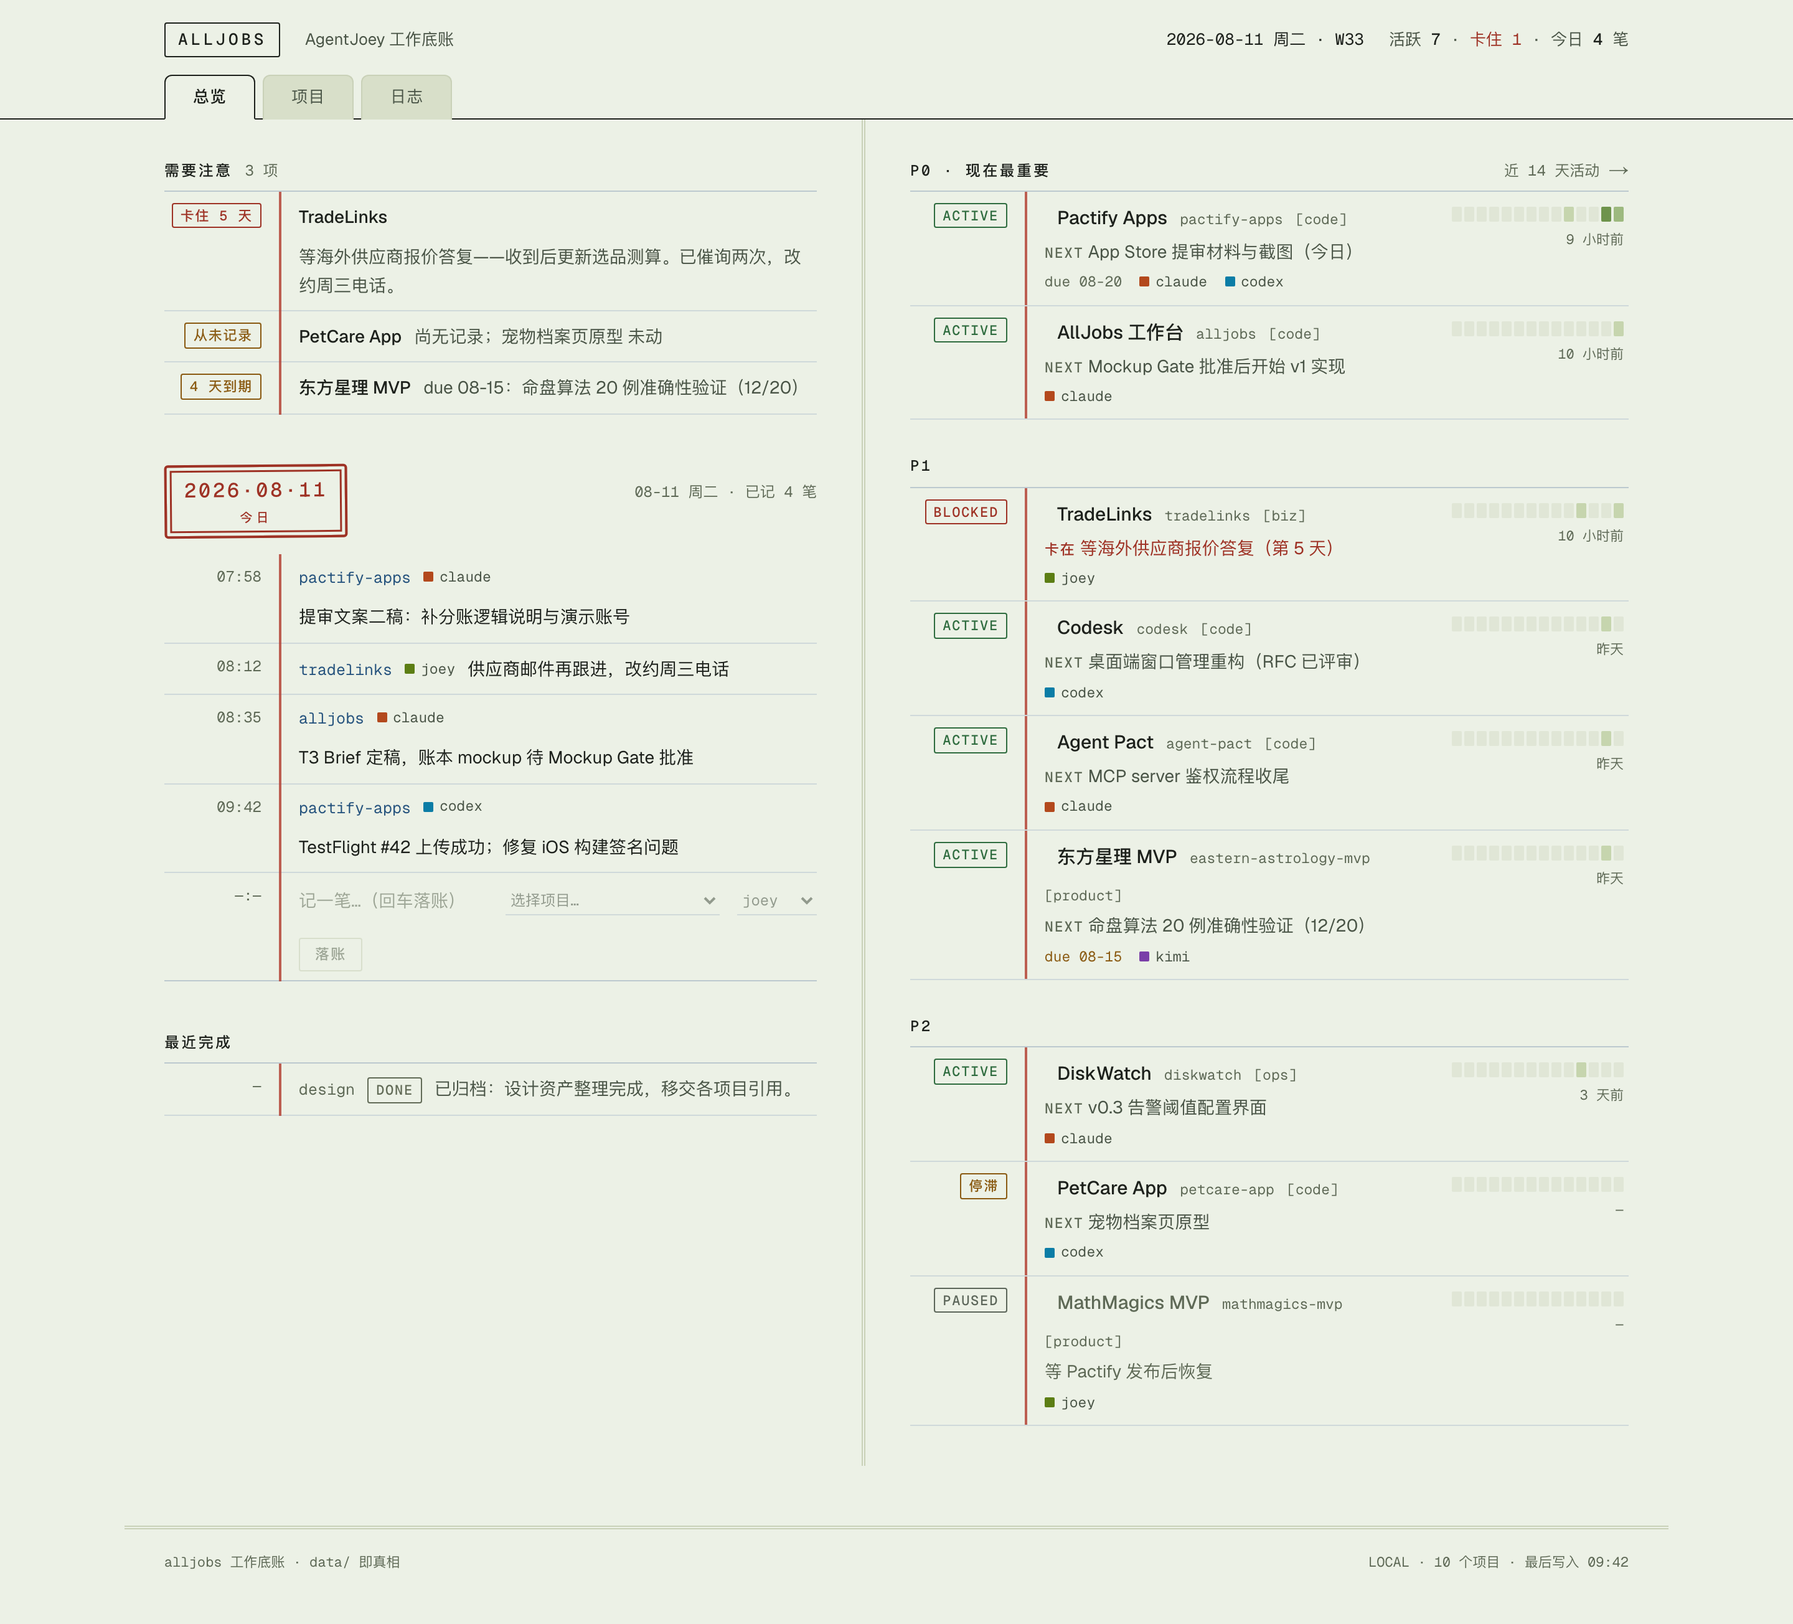
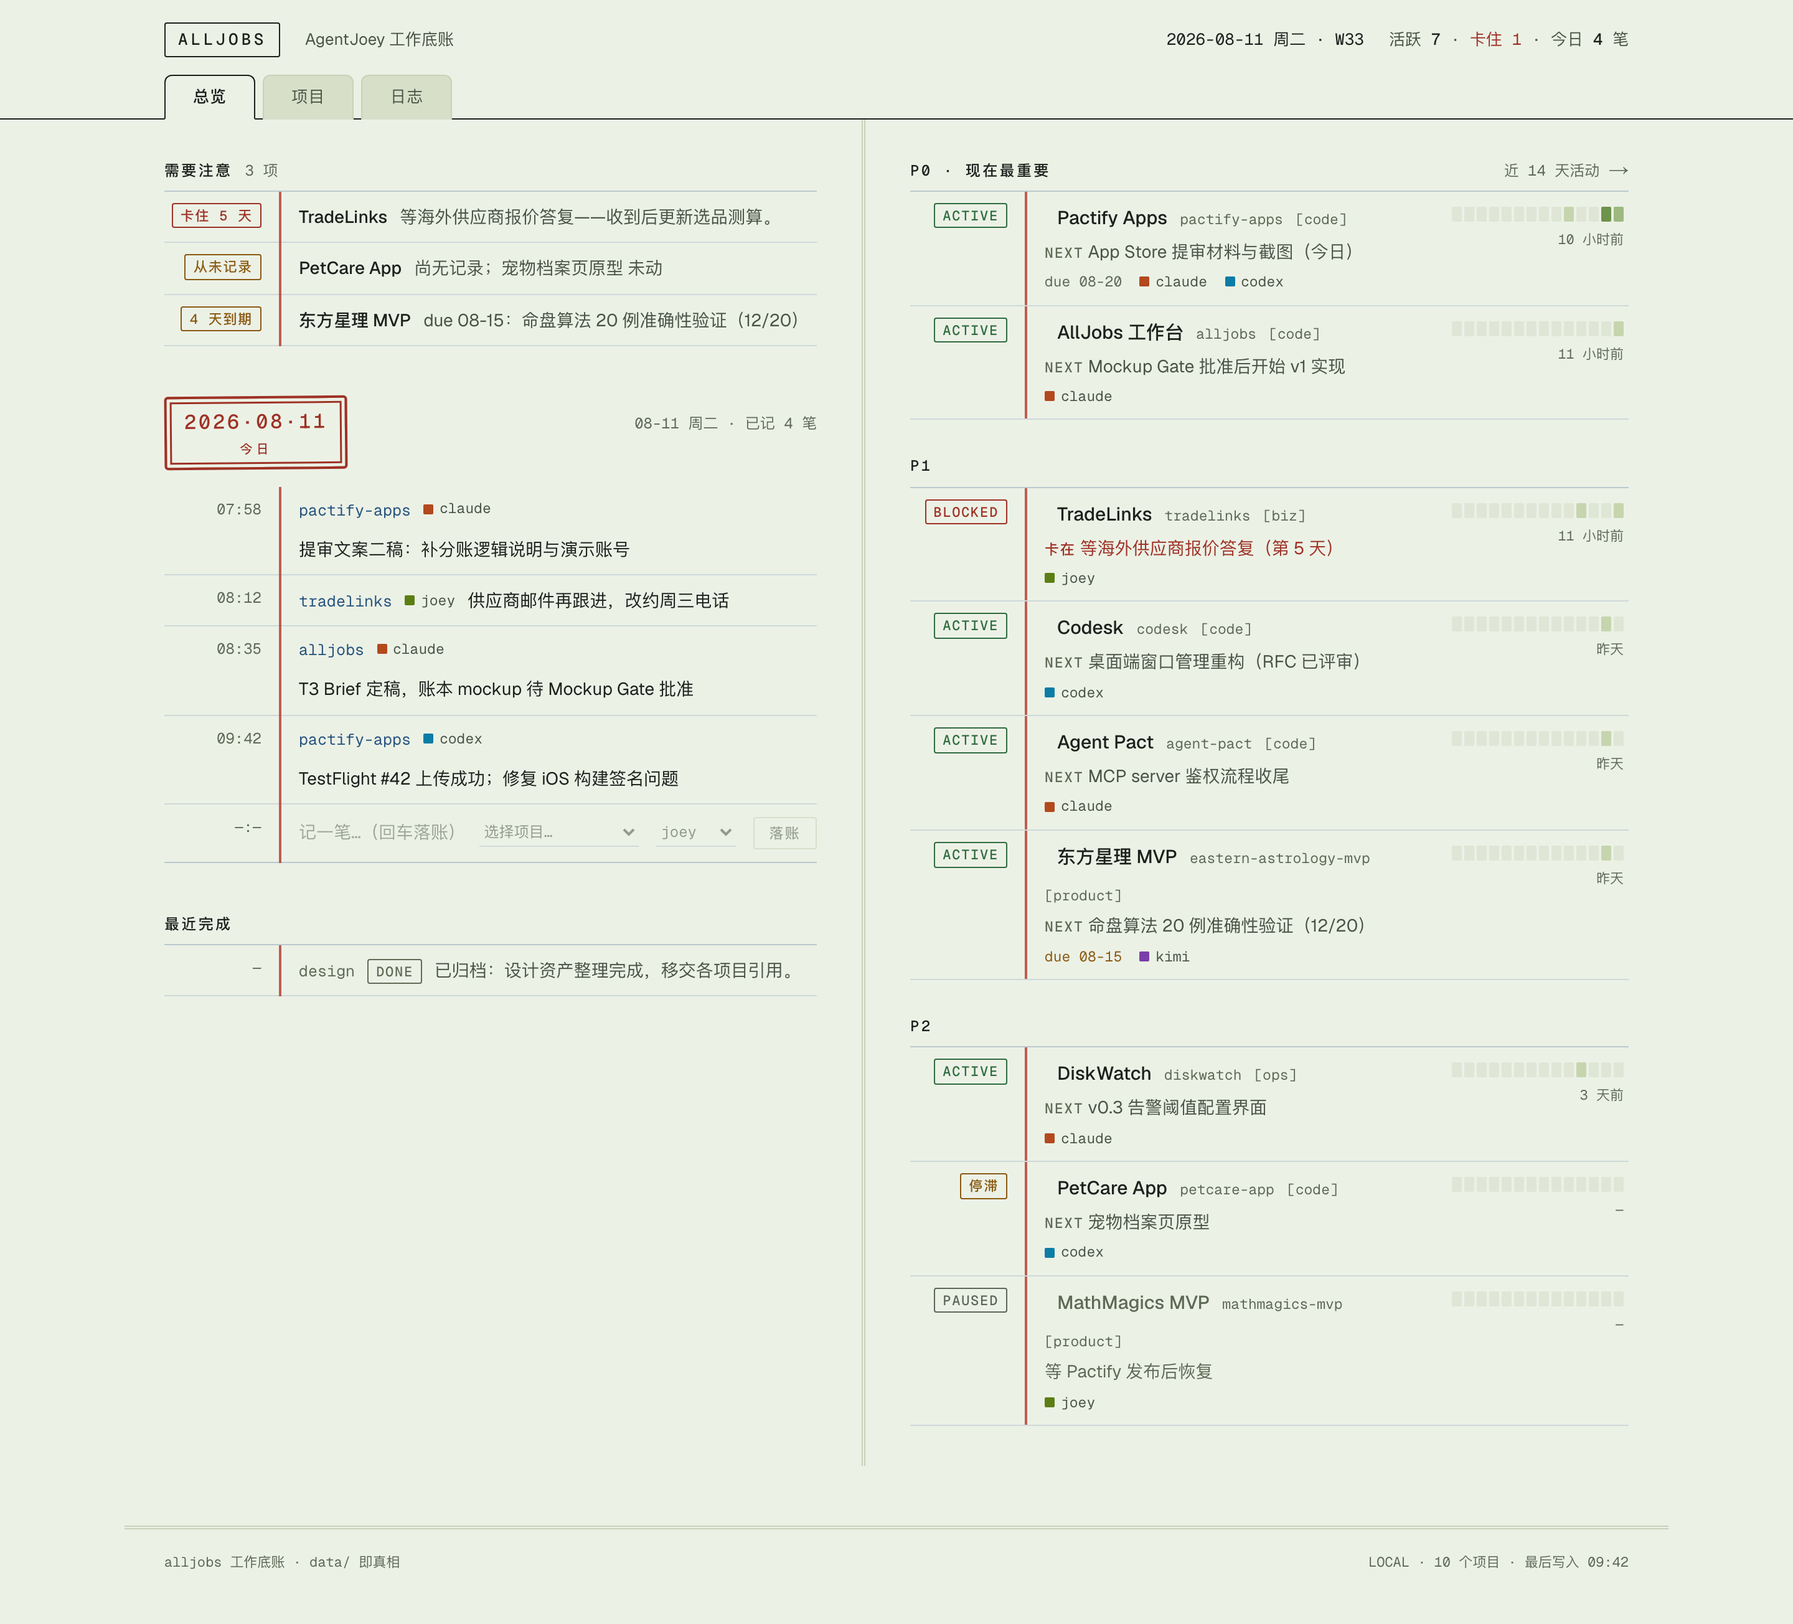
pact pages: checkpoint by kimi

diff --git a/app/views.test.tsx b/app/views.test.tsx
@@ -189,14 +189,16 @@ describe("总览 /", () => {
 });
 
 describe("项目列表 /projects", () => {
-  test("默认全部：chip aria-pressed + 全量底账行", () => {
+  test("默认全部：chip aria-current + 全量底账行", () => {
     const html = renderToStaticMarkup(<ProjectsView data={seedLedger()} filters={{}} now={NOW} />);
     expect(html).toContain("项目底账");
     for (const slug of ["pactify-apps", "tradelinks", "petcare-app", "design", "mathmagics-mvp"]) {
       expect(html).toContain(`href="/projects/${slug}"`);
     }
-    const chip = html.match(/<a[^>]*aria-pressed="true"[^>]*>全部[\s\S]*?<\/a>/);
+    // chips 是链接（role=link），选中态用 aria-current（aria-pressed 对 link 无效，axe critical）
+    const chip = html.match(/<a[^>]*aria-current="true"[^>]*>全部[\s\S]*?<\/a>/);
     expect(chip).toBeTruthy();
+    expect(html).not.toContain("aria-pressed");
   });
 
   test("过滤：status=done 只留 done；URL searchParams 驱动", () => {
@@ -283,6 +285,13 @@ describe("项目详情 /projects/[slug]", () => {
     expect(html).toContain("[url]");
   });
 
+  test("「更早记录见日志」整句为独立链接（axe link-in-text-block）", () => {
+    const html = renderToStaticMarkup(<DetailView data={seedLedger()} slug="pactify-apps" now={NOW} />);
+    // 整句做成链接，而非在文本块中嵌入只靠颜色区分的小链接
+    expect(html).toMatch(/<a[^>]*href="\/log\?slug=pactify-apps"[^>]*>更早记录见日志/);
+    expect(html).not.toMatch(/更早记录见 <a/);
+  });
+
   test("done：整页减淡 + DONE 戳", () => {
     const html = renderToStaticMarkup(<DetailView data={seedLedger()} slug="design" now={NOW} />);
     expect(html).toContain("DONE");
@@ -319,6 +328,9 @@ describe("日志 /log", () => {
     const html = renderToStaticMarkup(<LogView data={seedLedger()} filters={{ slug: "alljobs" }} now={NOW} />);
     expect(html).toContain("T3 Brief 定稿");
     expect(html).not.toContain("TestFlight #42 上传");
+    // chips 是链接：选中态 aria-current，不得出现 aria-pressed（axe aria-allowed-attr）
+    expect(html).toContain('aria-current="true"');
+    expect(html).not.toContain("aria-pressed");
   });
 
   test("agent 过滤生效", () => {
@@ -351,6 +363,24 @@ describe("日志 /log", () => {
     const html = renderToStaticMarkup(<LogView data={data} filters={{}} now={NOW} />);
     expect(html).not.toContain("2026-08-09");
     const empty = renderToStaticMarkup(<LogView data={ledger({})} filters={{}} now={NOW} />);
+    expect(empty).toContain("还没有日志");
+  });
+
+  test("过滤无结果：说明 + 清除过滤（账上有日志时不得谎称空账）", () => {
+    // alljobs + joey 组合为空，但账上有日志
+    const html = renderToStaticMarkup(
+      <LogView data={seedLedger()} filters={{ slug: "alljobs", agent: "joey" }} now={NOW} />,
+    );
+    expect(html).toContain("没有同时满足");
+    expect(html).toContain("alljobs");
+    expect(html).toContain("joey");
+    expect(html).toContain("清除过滤");
+    expect(html).toContain('href="/log"');
+    expect(html).not.toContain("还没有日志");
+    // 真·空账（一条日志都没有）才教 schema，即使带着过滤参数
+    const empty = renderToStaticMarkup(
+      <LogView data={ledger({})} filters={{ slug: "x" }} now={NOW} />,
+    );
     expect(empty).toContain("还没有日志");
   });
 });

diff --git a/app/log/log-view.tsx b/app/log/log-view.tsx
@@ -75,7 +75,8 @@ export function LogView({
         <ProofBanner issues={data.issues} />
 
         <div className="filters" role="group" aria-label="过滤">
-          <Link className="chip" href={clearSlug} aria-pressed={!filters.slug}>
+          {/* chips 是链接（role=link）：选中态用 aria-current，aria-pressed 仅对 button 有效 */}
+          <Link className="chip" href={clearSlug} aria-current={!filters.slug ? "true" : undefined}>
             全部项目
           </Link>
           {visibleSlugs.map(([slug]) => (
@@ -83,17 +84,13 @@ export function LogView({
               key={slug}
               className="chip"
               href={toggleHref("/log", current, "slug", slug)}
-              aria-pressed={filters.slug === slug}
+              aria-current={filters.slug === slug ? "true" : undefined}
             >
               {slug}
             </Link>
           ))}
           {slugs.length > TOP_SLUGS && (
-            <Link
-              className="chip"
-              href={toggleHref("/log", current, "more", "1")}
-              aria-pressed={expanded}
-            >
+            <Link className="chip" href={toggleHref("/log", current, "more", "1")}>
               {expanded ? "收起" : "更多 ›"}
             </Link>
           )}
@@ -103,7 +100,7 @@ export function LogView({
               key={a}
               className="chip"
               href={toggleHref("/log", current, "agent", a)}
-              aria-pressed={filters.agent === a}
+              aria-current={filters.agent === a ? "true" : undefined}
             >
               {a}
             </Link>
@@ -117,8 +114,26 @@ export function LogView({
                 —
               </span>
               <span className="body body--muted">
-                还没有日志。在 <span className="mono mono--sm">data/log/{todayStr}.md</span>{" "}
-                写下第一行：<span className="mono mono--sm">- HH:MM slug @agent 内容</span>
+                {data.entries.length === 0 ? (
+                  <>
+                    还没有日志。在 <span className="mono mono--sm">data/log/{todayStr}.md</span>{" "}
+                    写下第一行：
+                    <span className="mono mono--sm">- HH:MM slug @agent 内容</span>
+                  </>
+                ) : (
+                  <>
+                    没有同时满足{" "}
+                    <span className="mono mono--sm">
+                      {[filters.slug, filters.agent && `@${filters.agent}`]
+                        .filter(Boolean)
+                        .join(" + ")}
+                    </span>{" "}
+                    的日志。
+                    <Link className="chip chip--inline" href="/log">
+                      清除过滤
+                    </Link>
+                  </>
+                )}
               </span>
             </div>
           </Sheet>

diff --git a/app/projects/projects-view.tsx b/app/projects/projects-view.tsx
@@ -59,7 +59,8 @@ export function ProjectsView({
         <ProofBanner issues={data.issues} />
 
         <div className="filters" role="group" aria-label="过滤">
-          <Link className="chip" href="/projects" aria-pressed={!hasFilter}>
+          {/* chips 是链接（role=link）：选中态用 aria-current，aria-pressed 仅对 button 有效 */}
+          <Link className="chip" href="/projects" aria-current={!hasFilter ? "true" : undefined}>
             全部<span className="n">{derived.length}</span>
           </Link>
           {STATUSES.map((s) => (
@@ -67,7 +68,7 @@ export function ProjectsView({
               key={s}
               className="chip"
               href={toggleHref("/projects", current, "status", s)}
-              aria-pressed={filters.status === s}
+              aria-current={filters.status === s ? "true" : undefined}
             >
               {s}
               <span className="n">{derived.filter((p) => p.status === s).length}</span>
@@ -79,7 +80,7 @@ export function ProjectsView({
               key={t}
               className="chip"
               href={toggleHref("/projects", current, "type", t)}
-              aria-pressed={filters.type === t}
+              aria-current={filters.type === t ? "true" : undefined}
             >
               [{t}]<span className="n">{derived.filter((p) => p.type === t).length}</span>
             </Link>
@@ -90,7 +91,7 @@ export function ProjectsView({
               key={a}
               className="chip"
               href={toggleHref("/projects", current, "agent", a)}
-              aria-pressed={filters.agent === a}
+              aria-current={filters.agent === a ? "true" : undefined}
             >
               {a}
             </Link>

diff --git a/app/projects/[slug]/page.tsx b/app/projects/[slug]/page.tsx
@@ -1,18 +1,24 @@
 import type { Metadata } from "next";
+import { notFound } from "next/navigation";
 import { readLedger } from "../../../lib/data/read";
 import { DetailView } from "./detail-view";
-import { ProjectNotFound } from "./not-found-view";
-
-export const metadata: Metadata = { title: "项目详情" };
 
 export const dynamic = "force-dynamic";
+
+export async function generateMetadata({
+  params,
+}: PageProps<"/projects/[slug]">): Promise<Metadata> {
+  const { slug } = await params;
+  const project = readLedger().projects.find((p) => p.slug === slug);
+  return { title: project?.title ?? "查无此页" };
+}
 
 export default async function Page({ params }: PageProps<"/projects/[slug]">) {
   const { slug } = await params;
   const data = readLedger();
-  const now = new Date();
-  if (!data.projects.some((p) => p.slug === slug)) {
-    return <ProjectNotFound data={data} slug={slug} now={now} />;
-  }
-  return <DetailView data={data} slug={slug} now={now} />;
+  // slug 不存在必须回 404（而非 200 的「404 页」）；内容在同级 not-found.tsx。
+  // 注意：[slug] 的祖先链上不能有任何 loading.tsx——Suspense 流式渲染会抢在
+  // notFound() 之前发出 200 响应头（soft 404）。骨架因此收进 (overview)/(list)/log 路由组。
+  if (!data.projects.some((p) => p.slug === slug)) notFound();
+  return <DetailView data={data} slug={slug} now={new Date()} />;
 }

diff --git a/app/globals.css b/app/globals.css
@@ -529,7 +529,9 @@
   padding-bottom: 7px;
 }
 .quickadd input[type="text"] {
-  flex: 1 1 140px;
+  /* basis 140 时整行 425.3px 仍折行（Chrome 对原生 select 的换行判定有余量）；
+     basis 96 → 实测一行放下（input 仍会 grow 填满） */
+  flex: 1 1 96px;
   min-width: 0;
   border: none;
   background: transparent;
@@ -547,7 +549,11 @@
   border-bottom-color: var(--rule-red);
 }
 .quickadd select {
-  flex: none;
+  /* 原生 select 按最宽 option 定宽，长 slug（如 eastern-astrology-mvp）会把行顶折；
+     flex:none 不可缩 → 换行。改为可缩（min-width:0）+ 限宽 8rem，行内挤压时 select 收缩而非折行 */
+  flex: 0 1 auto;
+  min-width: 0;
+  max-width: 8rem;
   border: none;
   background: transparent;
   font-family: var(--font-mono);
@@ -793,7 +799,7 @@ a.row:hover {
   text-decoration: none;
   color: var(--ink);
 }
-.chip[aria-pressed="true"] {
+.chip[aria-current="true"] {
   border-color: var(--ink);
   color: var(--ink);
   font-weight: 500;
@@ -1026,6 +1032,15 @@ a.row:hover {
 }
 .empty-note--flush {
   padding-left: 0;
+}
+/* 整句即链接：不再是「文本块里只靠颜色区分的小链接」（axe link-in-text-block） */
+.empty-note-link {
+  color: inherit;
+  text-decoration: none;
+}
+.empty-note-link:hover {
+  color: var(--ink);
+  text-decoration: underline;
 }
 
 /* ---------- 页脚 ---------- */

diff --git a/app/projects/[slug]/not-found-view.tsx b/app/projects/[slug]/not-found-view.tsx
@@ -5,14 +5,14 @@ import { Footer } from "../../../components/ledger/footer";
 import { Masthead } from "../../../components/ledger/masthead";
 import { recentSlugs } from "../../../components/ledger/lib";
 
-/** /projects/[slug] 的 404：查无此页 + 最近 slug 索引 */
+/** /projects/[slug] 的 404：查无此页 + 最近 slug 索引（slug 可缺：not-found.tsx 拿不到 params） */
 export function ProjectNotFound({
   data,
   slug,
   now,
 }: {
   data: LedgerData;
-  slug: string;
+  slug?: string;
   now: Date;
 }) {
   const derived = deriveProjects(data.projects, data.entries, now);
@@ -27,7 +27,13 @@ export function ProjectNotFound({
         <div className="not-found">
           <span className="bigstamp">查无此页</span>
           <p className="not-found-lead">
-            底账里没有 <code className="mono">{slug}</code> 这一项。最接近的页：
+            {slug ? (
+              <>
+                底账里没有 <code className="mono">{slug}</code> 这一项。最接近的页：
+              </>
+            ) : (
+              "底账里没有这一项。最接近的页："
+            )}
           </p>
           <p className="not-found-links">
             {suggestions.map((s, i) => (

diff --git a/components/ledger/ledger.test.tsx b/components/ledger/ledger.test.tsx
@@ -78,6 +78,32 @@ describe("lib · 戳文案与原因", () => {
     expect(attentionWhy(item)).toContain("等海外供应商报价答复");
   });
 
+  test("blocked：why 只取 now 首句（对齐 mockup 单行密度）", () => {
+    const item = attentionOf(
+      makeProject({
+        slug: "wordy",
+        status: "blocked",
+        blocked_reason: "r",
+        blocked_since: "2026-08-06",
+        now: "第一句说到这里。第二句不该出现在 why 里。\n换行后的也不该。",
+      }),
+      [],
+    );
+    expect(attentionWhy(item)).toBe("第一句说到这里。");
+    // 无句读时退到首个换行；单句则原样
+    const nonStop = attentionOf(
+      makeProject({
+        slug: "wordy2",
+        status: "blocked",
+        blocked_reason: "r",
+        blocked_since: "2026-08-06",
+        now: "没有句读的一行\n后面还有",
+      }),
+      [],
+    );
+    expect(attentionWhy(nonStop)).toBe("没有句读的一行");
+  });
+
   test("stale：停滞 N 天；从未记录时给明确文案", () => {
     const stale = attentionOf(
       makeProject({ slug: "petcare-app", next: ["宠物档案页原型"] }),

diff --git a/components/ledger/lib.ts b/components/ledger/lib.ts
@@ -52,7 +52,8 @@ export function attentionStamp(item: AttentionItem, today: Date): StampSpec {
 export function attentionWhy(item: AttentionItem): string {
   const p = item.project;
   if (item.kind === "blocked") {
-    return p.now ?? p.blocked_reason ?? "status=blocked";
+    // now 可能是多句多行，why 只取首句以对齐 mockup 单行密度
+    return p.now ? firstSentence(p.now) : (p.blocked_reason ?? "status=blocked");
   }
   if (item.kind === "stale") {
     const last = p.lastEntry ? `上次记录 ${formatMmDd(p.lastEntry.date)}` : "尚无记录";
@@ -60,6 +61,12 @@ export function attentionWhy(item: AttentionItem): string {
   }
   const head = `due ${formatMmDd(p.due!)}`;
   return p.next[0] ? `${head}：${p.next[0]}` : head;
+}
+
+/** 首句：到第一个句读（。！？!?）为止并含句读；无句读退到首个换行 */
+function firstSentence(s: string): string {
+  const m = s.match(/^[^。！？!?\n]*[。！？!?]?/);
+  return m?.[0] || s;
 }
 
 /** 底账行边距戳：blocked 优先于停滞（与注意清单同序），其余直取状态 */

diff --git a/app/projects/[slug]/detail-view.tsx b/app/projects/[slug]/detail-view.tsx
@@ -198,7 +198,9 @@ export function DetailView({
               ))
             )}
             <p className="empty-note">
-              更早记录见 <Link href={`/log?slug=${slug}`}>日志</Link> 按月归档 →
+              <Link className="empty-note-link" href={`/log?slug=${slug}`}>
+                更早记录见日志 · 按月归档 →
+              </Link>
             </p>
           </section>
         </div>

diff --git a/app/projects/[slug]/not-found.tsx b/app/projects/[slug]/not-found.tsx
@@ -1,0 +1,9 @@
+import { readLedger } from "../../../lib/data/read";
+import { ProjectNotFound } from "./not-found-view";
+
+export const dynamic = "force-dynamic";
+
+/** not-found 拿不到 params（Next 约定），故 slug 不指名；最近 slug 索引照常从账本取 */
+export default function NotFound() {
+  return <ProjectNotFound data={readLedger()} now={new Date()} />;
+}

diff --git a/app/projects/(list)/page.tsx b/app/projects/(list)/page.tsx
@@ -1,6 +1,6 @@
 import type { Metadata } from "next";
-import { readLedger } from "../../lib/data/read";
-import { ProjectsView } from "./projects-view";
+import { readLedger } from "../../../lib/data/read";
+import { ProjectsView } from "../projects-view";
 
 export const metadata: Metadata = { title: "项目" };
 

diff --git a/app/(overview)/page.tsx b/app/(overview)/page.tsx
@@ -1,6 +1,6 @@
 import type { Metadata } from "next";
-import { readLedger } from "../lib/data/read";
-import { OverviewView } from "./overview-view";
+import { readLedger } from "../../lib/data/read";
+import { OverviewView } from "../overview-view";
 
 export const metadata: Metadata = { title: "总览" };
 
